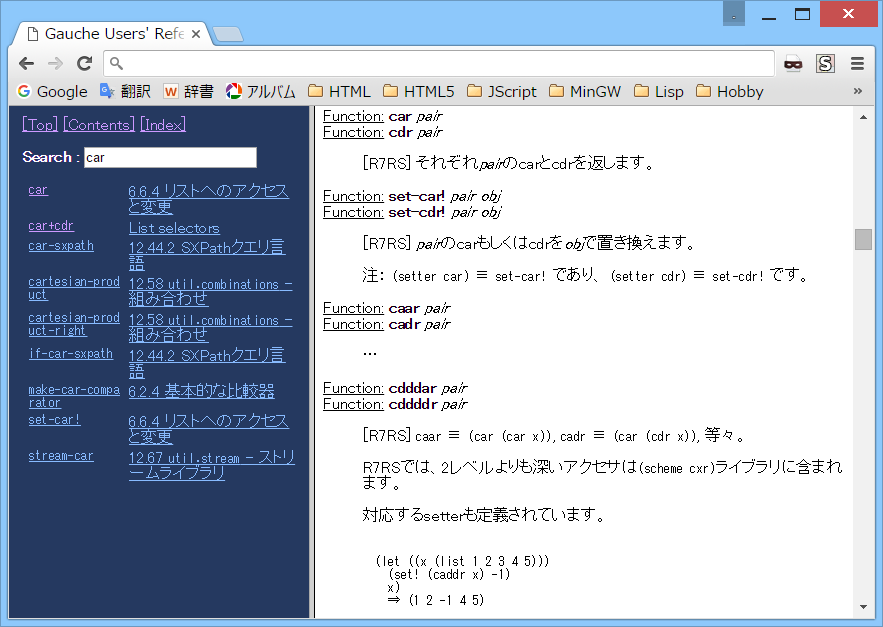
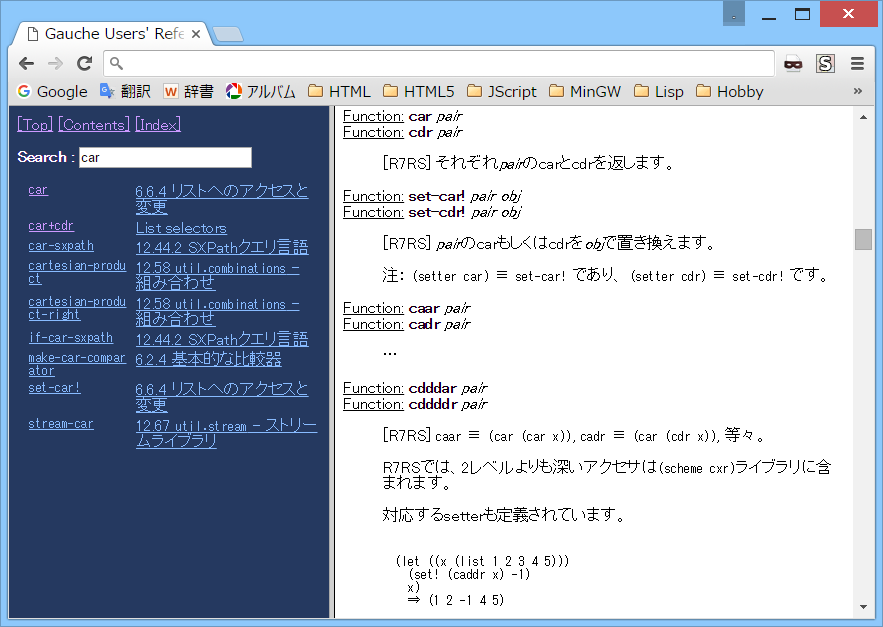
src chg v1.04

diff --git a/README.md b/README.md
@@ -10,7 +10,7 @@
 
 ## マニュアルの生成手順
 1. 開発環境のインストール  
-   事前に開発環境のインストールが必要です。  
+   事前に開発環境がインストールされている必要があります。  
    Windows の場合は、MinGW (32bit) または MSYS2/MinGW-w64 (64bit/32bit) の開発環境が必要です。  
    以下のページを参考にインストールを実施ください。  
    ＜MinGW (32bit) の場合＞  
@@ -45,14 +45,14 @@
    ダブルクリック等で実行してください。  
    他のOSであれば、シェル上で、1001_makehtml_isearch.sh を実行してください。  
    成功すると、以下の ファイル/フォルダ が doc フォルダ内に生成されます。  
-   (データが分割されるかは、使用したHTML生成ツールによって決まります)
+   (データが分割されるかどうかは、使用したHTML生成ツールによって決まります)
    ```
    gauche-refe-isearch.html       英語版の起動用HTMLファイル
    gauche-refe-isearch-input.html 英語版の検索処理用HTMLファイル
-   gauche-refe-isearch-main.html  英語版のデータ(HTML分割時はフォルダになります)
+   gauche-refe-isearch-main.html  英語版のデータ(データ分割時はフォルダになります)
    gauche-refj-isearch.html       日本語版の起動用HTMLファイル
    gauche-refj-isearch-input.html 日本語版の検索処理用HTMLファイル
-   gauche-refj-isearch-main.html  日本語版のデータ(HTML分割時はフォルダになります)
+   gauche-refj-isearch-main.html  日本語版のデータ(データ分割時はフォルダになります)
    ```
 
 
@@ -61,13 +61,14 @@
   左側には、インクリメンタルサーチ用のテキストボックスが表示されます。
 - テキストボックスに文字を入力すると、検索結果が表示されます。  
   そして、検索結果をクリックすると、右側に説明を表示します。
-- テキストボックスへの入力中にEnterキーを押すと、先頭の検索結果の説明を表示します。
+- テキストボックの入力中にEnterキーを押すと、先頭の検索結果の説明を表示します。
 - テキストボックスの先頭に半角スペースを入力すると、その次の文字から始まる検索結果だけを表示します。  
   また、テキストボックスの末尾に半角スペースを入力すると、その前の文字で終了する検索結果だけを表示します。
 
 
 ## その他、注意事項等
 1. HTML生成ツールは、以下のものを自動で検出して使用します。  
+   (上から順番に検索して、見つかったものを使用します)  
    texi2html か texi2any を使用した場合には、データは分割されてフォルダ内に格納されます。  
    
    ```
@@ -77,7 +78,8 @@
    ```
 
 2. 古いブラウザ(IE8,IE9等)では、インクリメンタルサーチ機能は使用できません。  
-   (その場合は、インクリメンタルサーチ機能が非表示になります)
+   その場合は、インクリメンタルサーチ機能が非表示になります。  
+   (遅くて固まるため無効にしました。。。)
 
 
 ## 参考情報
@@ -103,6 +105,7 @@
 - 2016-2-18  v1.02 検索処理見直し等  
   texi2html使用時のフッターのユーザ名表示を消去
 - 2016-2-18  v1.03 検索処理の不要行削除等
+- 2016-2-18  v1.04 表示調整等
 
 
 (2016-2-18)
